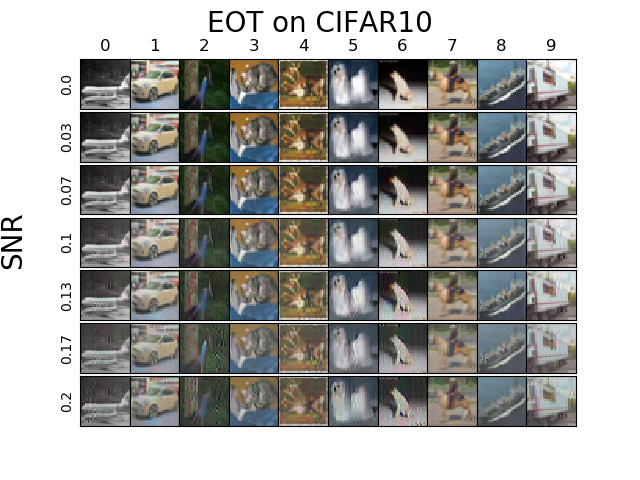
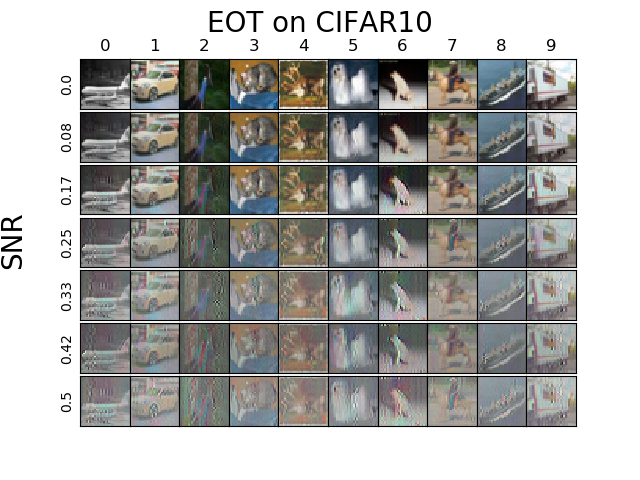
generated larger attacks with EoT (0.5 SNR)

diff --git a/adversarial_attacks.py b/adversarial_attacks.py
@@ -140,7 +140,8 @@ class Attacker:
                                     transfer_network = None,
                                     return_attacks_only = False,
                                     attack_images = None,
-                                    attack_labels  = None):
+                                    attack_labels  = None,
+                                    prog_bar = True):
         # Push transfer_network to GPU
         if self.gpu and transfer_network is not None:
             transfer_network = transfer_network.cuda()
@@ -188,7 +189,7 @@ class Attacker:
 
         # Test images in test loader
         attack_accuracies = np.zeros(len(epsilons))
-        for inputs, labels in tqdm (self.data.test_loader, desc="Batches Done..."):
+        for inputs, labels in tqdm (self.data.test_loader, desc="Batches Done...", disable=not prog_bar):
 
             # Optionally use custom images
             if attack_images is not None:
@@ -463,7 +464,8 @@ class Attacker:
         plt.suptitle(attack + " on " + self.data.set_name, fontsize=20)
         fig.text(0.02, 0.5, 'SNR', va='center', ha='center', rotation='vertical', fontsize=20)
 
-        for i, row in enumerate(axes2d):
+        for i, row in enumerate(tqdm(axes2d, desc="Epsilons Done...")):
+
             if self.gpu:
                 images = images.cuda()
                 labels = labels.cuda()
@@ -472,7 +474,8 @@ class Attacker:
                                                 attack_images = images,
                                                 attack_labels = labels,
                                                 epsilons = [epsilons[i]],
-                                                return_attacks_only = True)
+                                                return_attacks_only = True,
+                                                prog_bar = False)
 
             # UNnormalize
             attacks = attacks.view(attacks.size(0), attacks.size(1), -1)
@@ -496,11 +499,7 @@ class Attacker:
                     cell.set_title(j)
                 if j == 0:
                     cell.set_ylabel(epsilons[i])
-<<<<<<< HEAD
                     
-=======
-
->>>>>>> 7ffb5da87d3e8b723eeed0b15eefdcdbad0c7a08
         fig.subplots_adjust(hspace = 0, wspace=0)
             
         if save_only:

diff --git a/view_attacks.py b/view_attacks.py
@@ -8,8 +8,8 @@ import torch
 set_name = "CIFAR10"
 attack_type = "EOT"
 gpu = True
-epsilons = [round(x, 2) for x in np.linspace(0, 0.4, 7)]
-print(epsilons)
+epsilons = [round(x, 2) for x in np.linspace(0, 0.5, 7)]
+print("Epsilons: ", epsilons)
 
 # Declare which GPU PCI number to use
 if gpu:
@@ -32,6 +32,6 @@ attacker_net.eval()
 attacker = Attacker(attacker_net, data, gpu = gpu)
 
 # Display Results
-attacker.check_attack_perception(attack = attack_type,
-                                epsilons = epsilons,
-                                save_only=True)
+attacker.check_attack_perception(attack   = attack_type,
+                                epsilons  = epsilons,
+                                save_only = True)
